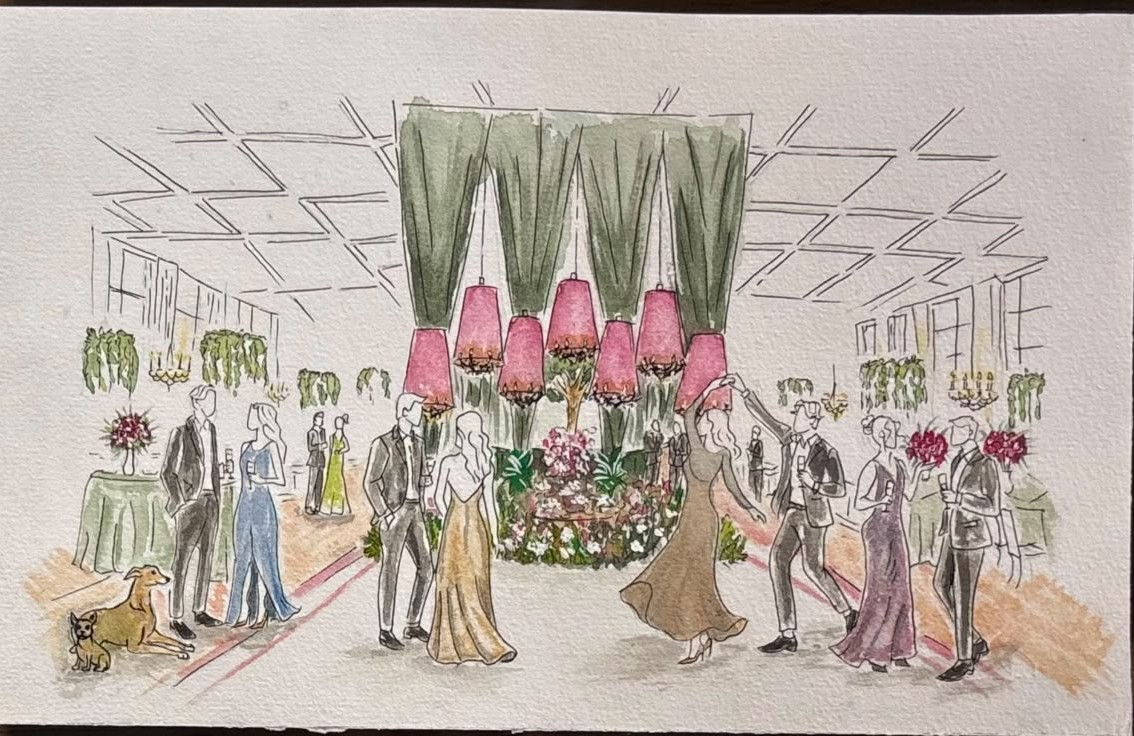
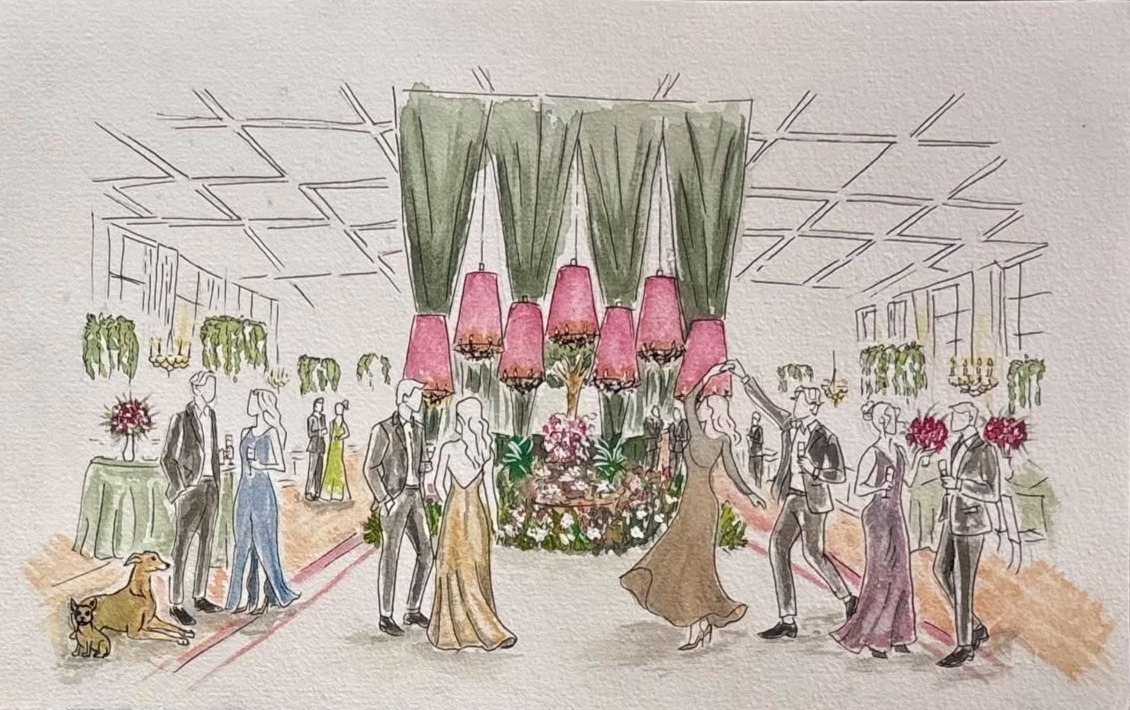
style: crop dark borders from party illustration; center within content container

diff --git a/app/page.tsx b/app/page.tsx
@@ -16,13 +16,13 @@ export default function Home() {
       <Hero />
       <WelcomeMessage />
       <Countdown />
-      <div className="flex justify-center py-6 -mx-14 md:-mx-16">
+      <div className="flex justify-center pt-2 pb-4">
         <Image
           src="/inv/ilustracao-festa.jpg"
           alt=""
-          width={1134}
-          height={736}
-          className="w-full h-auto"
+          width={1130}
+          height={710}
+          className="w-full h-auto mix-blend-multiply"
         />
       </div>
       <EventCard />
